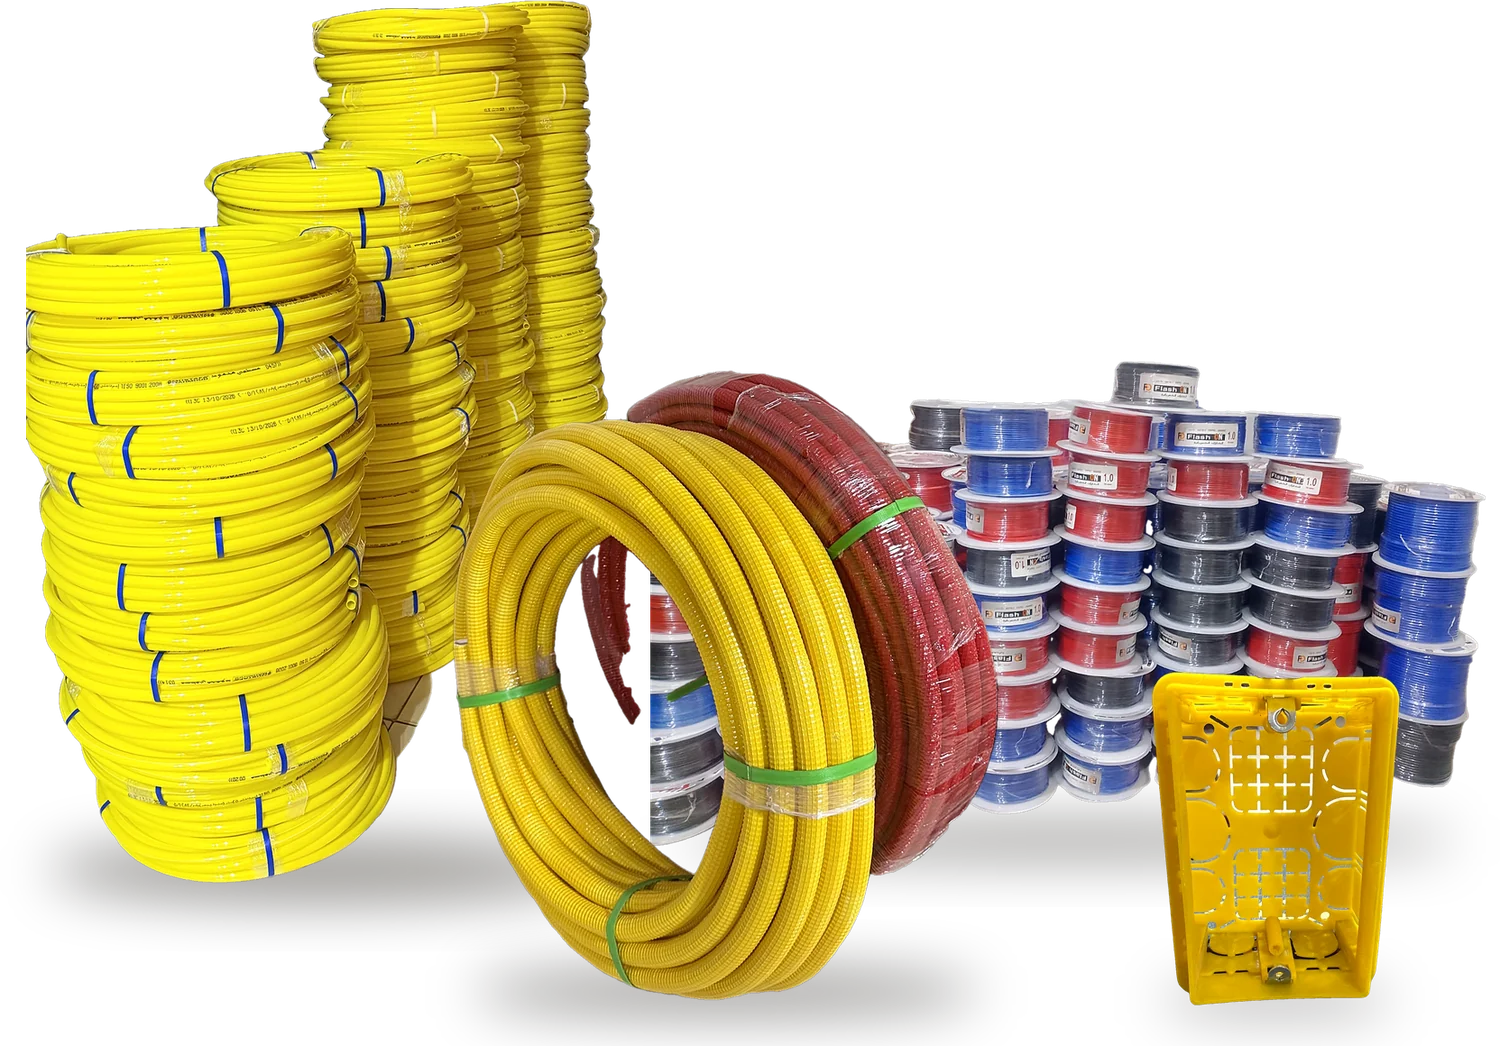
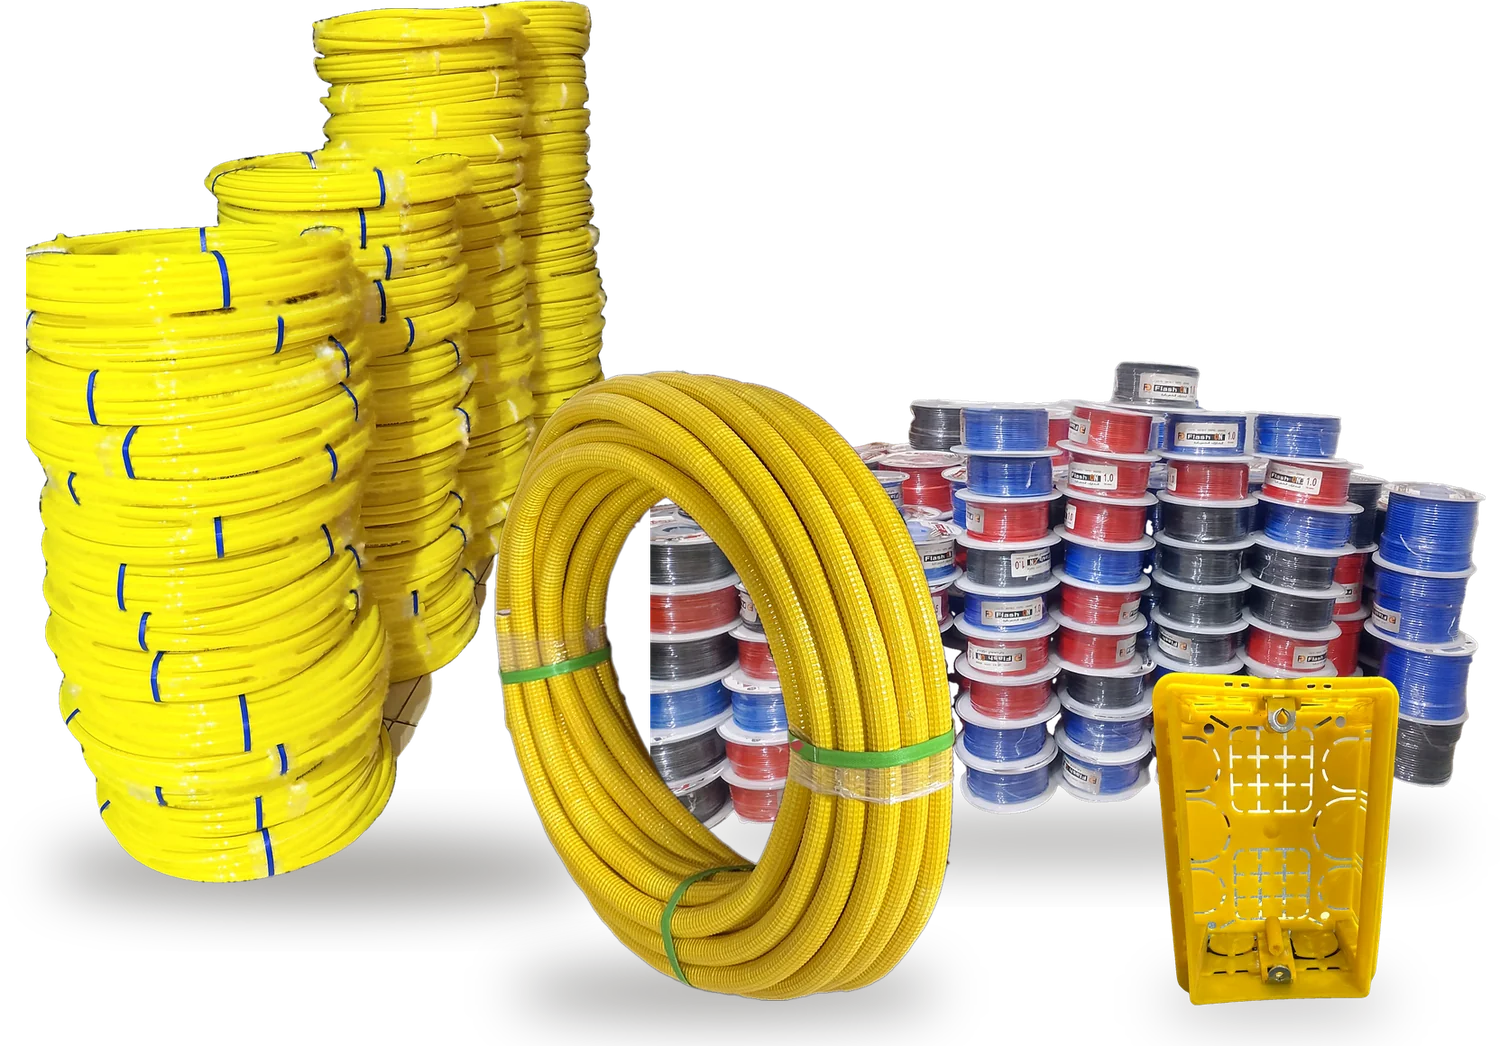
الصور: شيل اللفة الحمرا من الخرطوم المموج، ومسح الكتابة من لفات المواسير الصفرا
Claude-Session: https://claude.ai/code/session_013NXf52q5qVjaC9gEx3peAB

diff --git a/index.html b/index.html
@@ -275,7 +275,7 @@ footer{border-top:1px solid var(--line);background:var(--surface)}
       </div>
 
       <article class="prod rv">
-        <div class="ph"><span class="no">01</span><img src="assets/img/hoses.webp" width="868" height="1000" loading="lazy" alt="لفات خرطوم كهرباء مموّج أصفر وأحمر"></div>
+        <div class="ph"><span class="no">01</span><img src="assets/img/hoses.webp" width="733" height="1000" loading="lazy" alt="لفة خرطوم كهرباء مموّج"></div>
         <div>
           <span class="eyebrow">تأسيس</span>
           <h3>خراطيم كهربائية</h3>
@@ -283,7 +283,7 @@ footer{border-top:1px solid var(--line);background:var(--surface)}
           <dl class="spec">
             <div><dt>الشكل</dt><dd>مموّج مرن</dd></div>
             <div><dt>الاستخدام</dt><dd>تمديدات داخل الحوائط والأسقف</dd></div>
-            <div><dt>الألوان</dt><dd><span class="dots"><i style="background:#F2C200"></i><i style="background:#C3272B"></i></span></dd></div>
+            <div><dt>اللون</dt><dd><span class="dots"><i style="background:#F2C200"></i></span></dd></div>
           </dl>
           <div class="acts"><a class="link" data-ask="أرغب في الاستفسار عن مقاسات وأسعار الخراطيم الكهربائية" href="#contact">اطلب المقاسات والأسعار <svg><use href="#icArrow"/></svg></a></div>
         </div>
